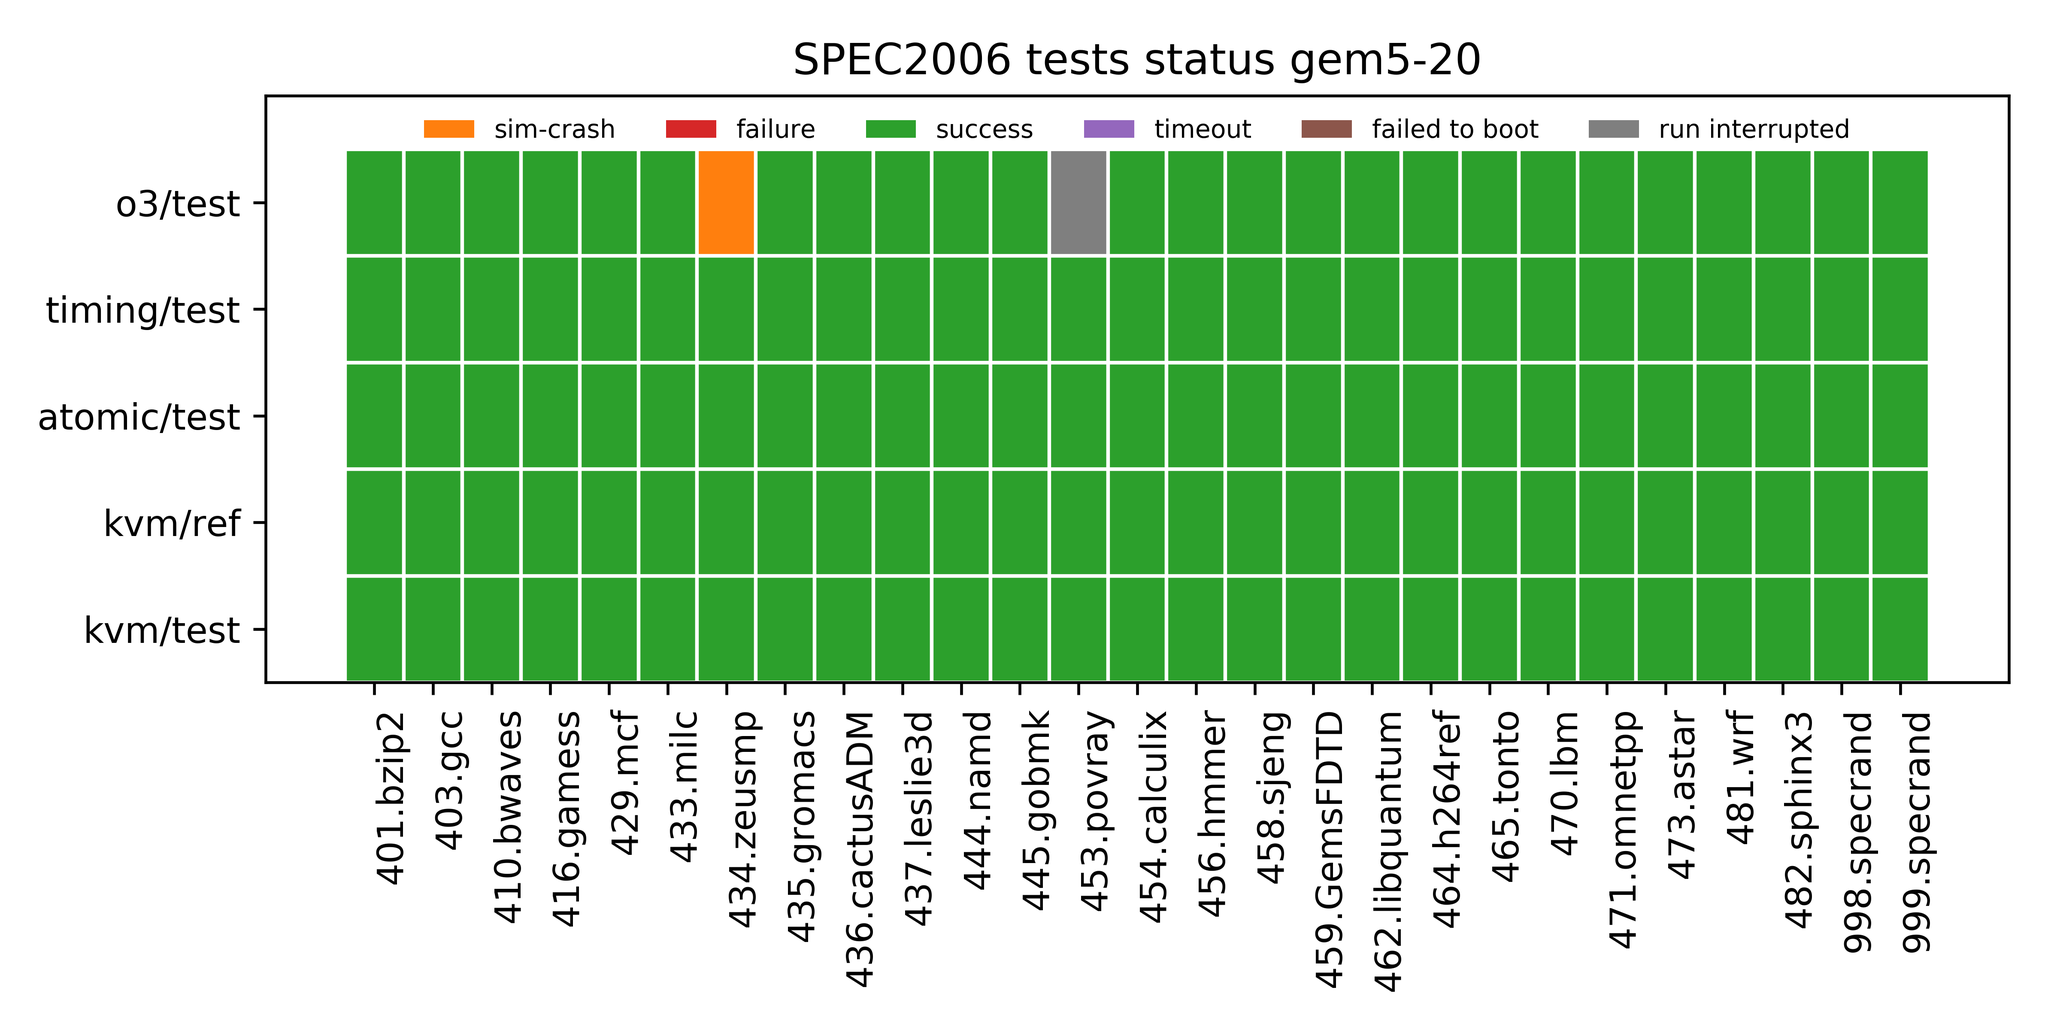
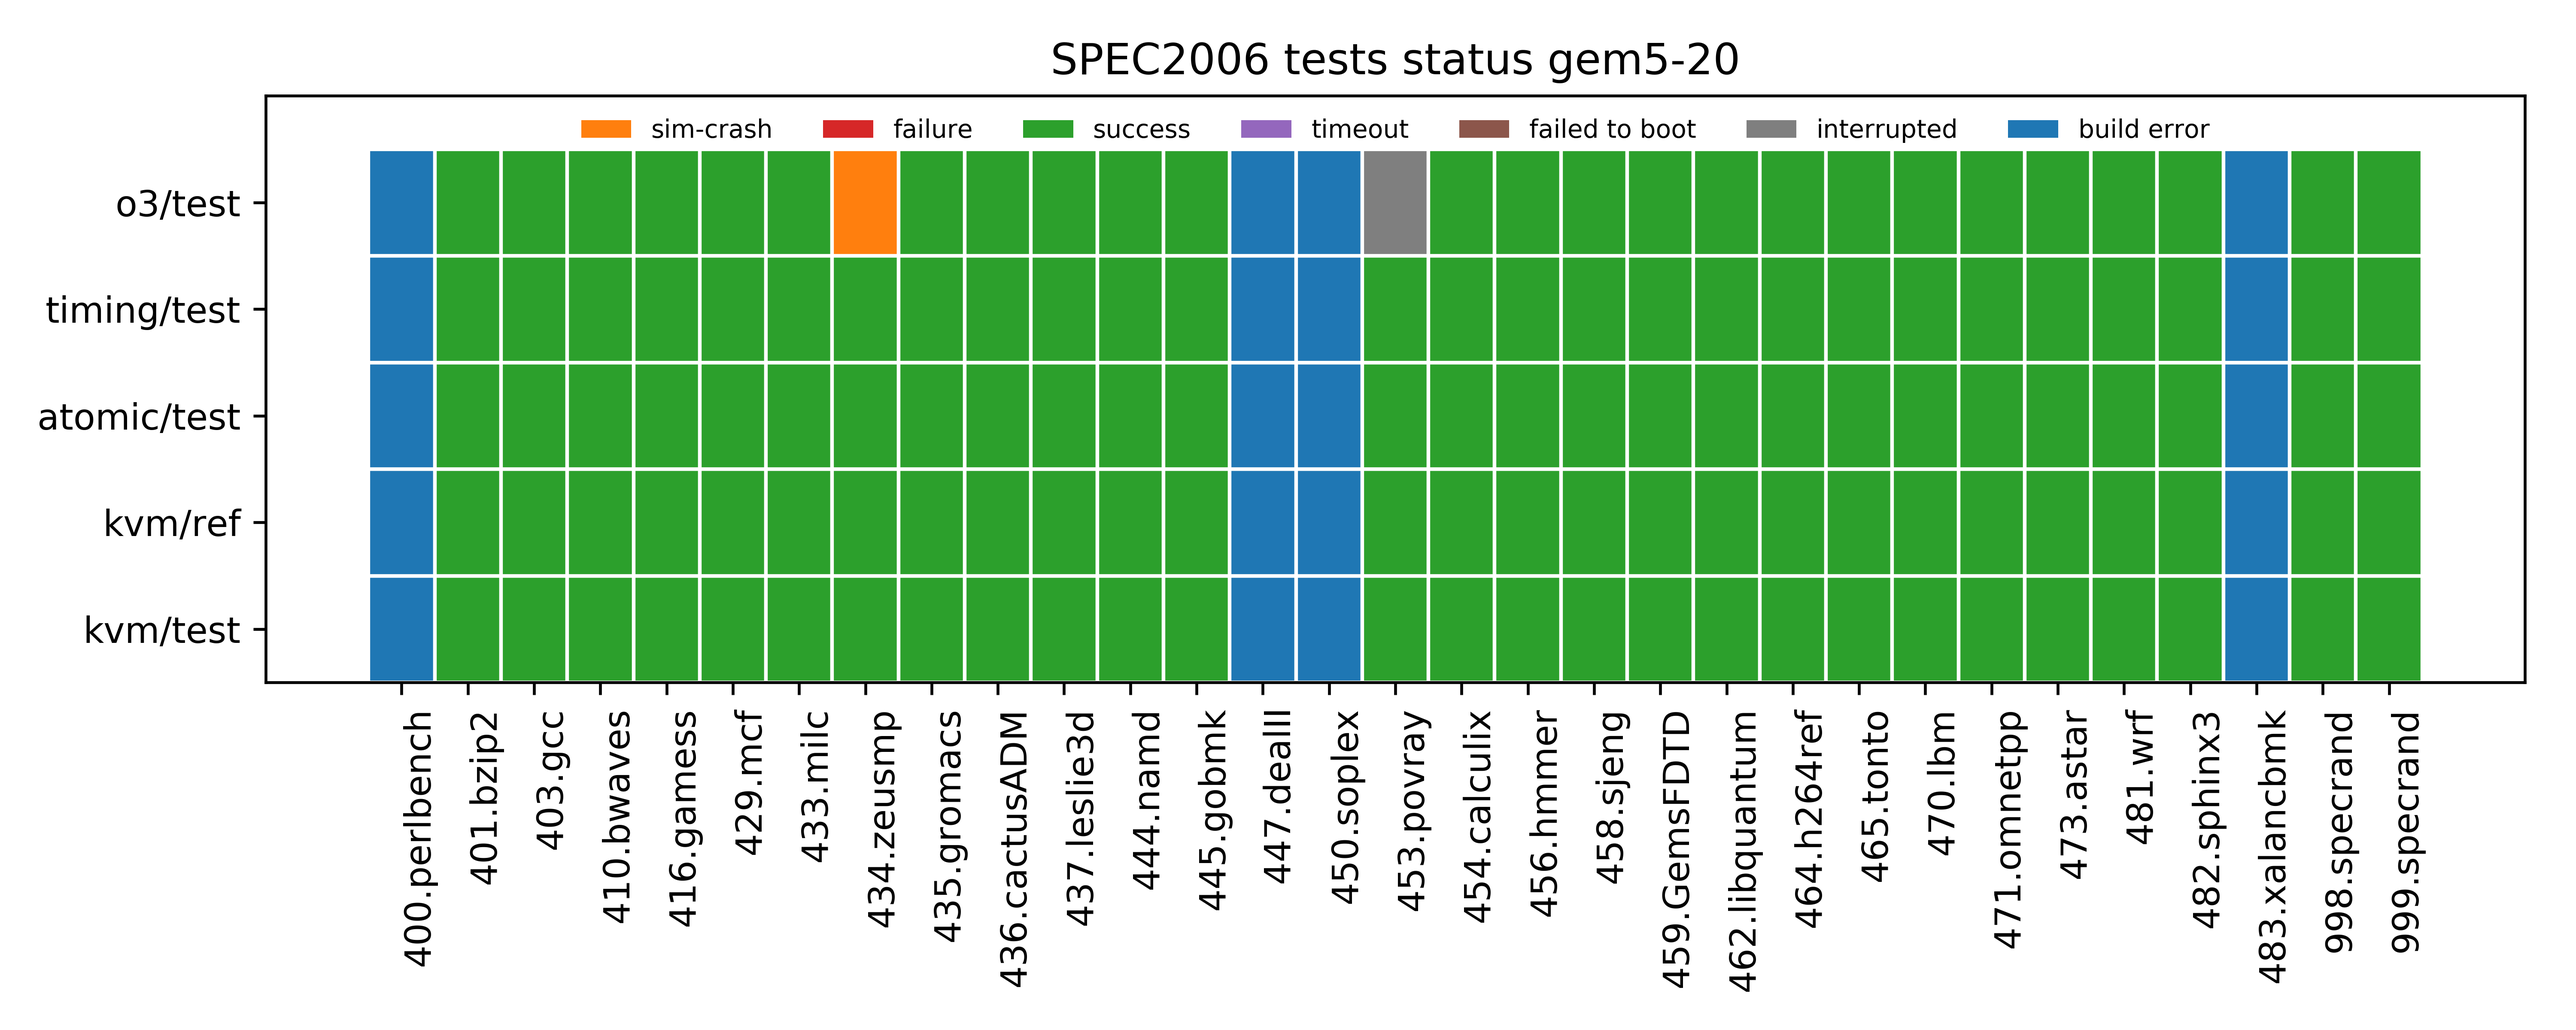
add corrections to SPEC status

Changed region(s): [[0.0, 0.0312, 0.9375, 0.9688]]

diff --git a/others/status-plots.md b/others/status-plots.md
@@ -54,8 +54,7 @@ The following plot represent the status of SPEC2006 workloads for different CPUs
 
 ![SPEC-2006 status fro gem5-20 ](status-plots/spec2006_gem5-20_status.png)
 
-* Few workloads, [**400.perlbench**, **447.dealII**, **450.soplex**, **483.xalancbmk**] had build errors
-* **434.zeusmp** had crashed in gem5-19 as well due a segmentation fault.
+* **434.zeusmp** had crashed in gem5-19 and gem5-20 segmentation fault.
 * **453.povray** needs a rerun and the test with gem5-19 was a success. 
 
 # SPEC 2017 Tests
